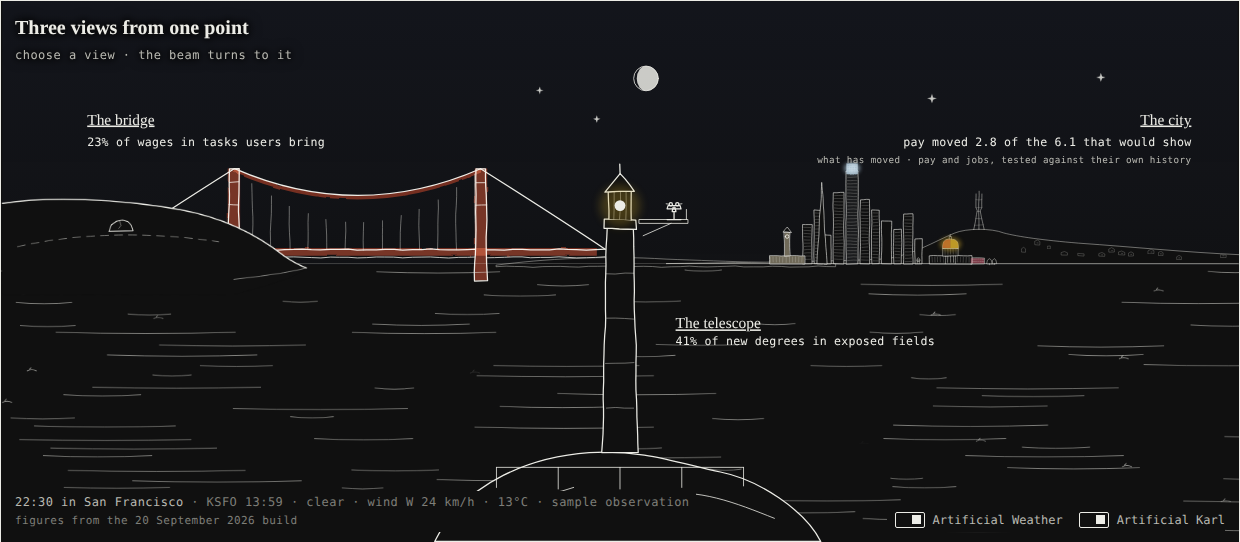
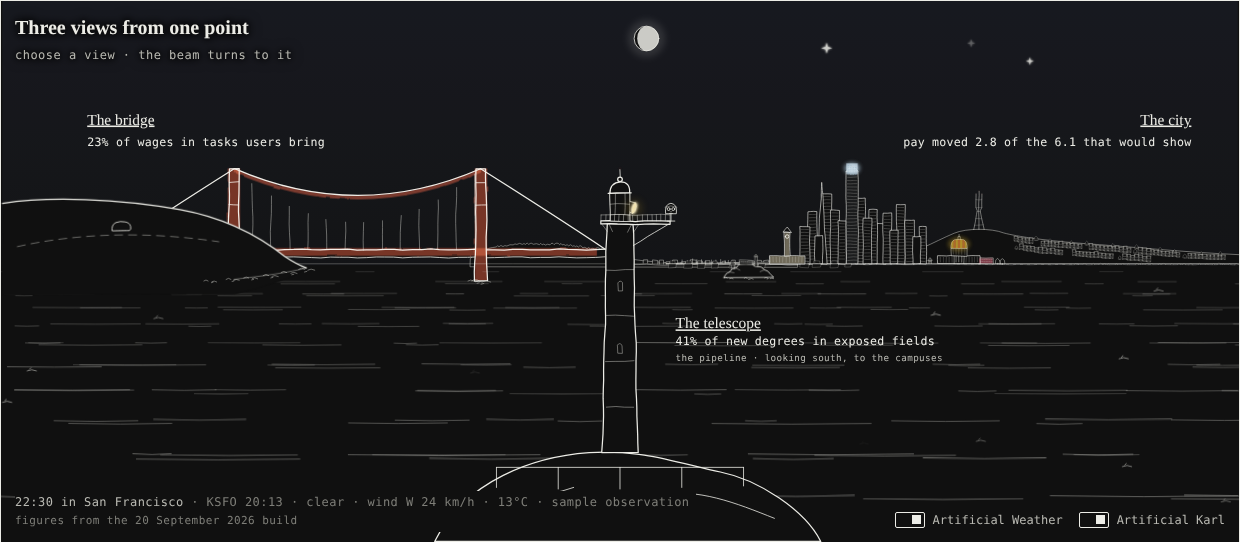
Front page: an orange and red flame; two ways to fail, a sputter and a break in two, each in one clean motion from the clock; a splash like the hydrant's; smaller softer aircraft lights, Sutro's taking turns, one on the lighthouse; calmer broken water; no star before the moon, a faint glow on both; 

diff --git a/docs/mockup/index.html b/docs/mockup/index.html
@@ -107,7 +107,8 @@ header.top{display:flex;align-items:baseline;justify-content:space-between;gap:1
 .halo{fill:var(--gold);stroke:none;opacity:0;transition:opacity .6s}
 .avlight,.shiplight{opacity:0}
 .dusk .avlight,.night .avlight{animation:av 2s steps(1) infinite}
-@keyframes av{0%{opacity:1}45%{opacity:.08}}
+@keyframes av{0%{opacity:.9}20%{opacity:.04}}
+.avlight{filter:url(#soft)}
 .dusk .shiplight,.night .shiplight{animation:shipflash 5s steps(1) infinite}
 @keyframes shipflash{0%{opacity:1}10%{opacity:0}}
 .night .lens{animation:occult 4s ease-in-out infinite}
@@ -245,6 +246,8 @@ header.top{display:flex;align-items:baseline;justify-content:space-between;gap:1
           <feGaussianBlur in="d" stdDeviation="0.7"/>
         </filter>
         <filter id="glow" x="-100%" y="-100%" width="300%" height="300%"><feGaussianBlur stdDeviation="6"/></filter>
+        <filter id="soft" x="-300%" y="-300%" width="700%" height="700%"><feGaussianBlur in="SourceGraphic" stdDeviation="1.1" result="b"/><feMerge><feMergeNode in="b"/><feMergeNode in="SourceGraphic"/></feMerge></filter>
+        <filter id="haze" x="-100%" y="-100%" width="300%" height="300%"><feGaussianBlur stdDeviation="5"/></filter>
         <filter id="lamp" x="-400%" y="-400%" width="900%" height="900%"><feGaussianBlur in="SourceGraphic" stdDeviation="2.2" result="b"/><feMerge><feMergeNode in="b"/><feMergeNode in="b"/><feMergeNode in="SourceGraphic"/></feMerge></filter>
         <filter id="lampwide" x="-60%" y="-60%" width="220%" height="220%"><feGaussianBlur stdDeviation="3.5"/></filter>
         <linearGradient id="skygrad" x1="0" y1="0" x2="0" y2="1"><stop id="sky-top" offset="0" stop-color="#BFD3E6" stop-opacity="0"/><stop id="sky-low" offset="1" stop-color="#F2B48C" stop-opacity="0"/></linearGradient>
@@ -405,6 +408,7 @@ header.top{display:flex;align-items:baseline;justify-content:space-between;gap:1
     el("path", {d:`M${x-15} ${top-6} L ${x+15} ${top-6} M${x-13} ${top-6} Q ${x-13} ${top-20} ${x} ${top-21} Q ${x+13} ${top-20} ${x+13} ${top-6} Z`, style:P}, g);
     el("circle", {cx:x, cy:top-24, r:3, style:P}, g); el("path", {d:`M${x} ${top-27} L ${x} ${top-37}`, class:"thin"}, g);
     el("circle", {cx:x, cy:top+8, r:9, class:"halo", id:"halo"}, g);
+    { const c = el("circle", {cx:x, cy:top-38, r:1.7, class:"avlight", style:"fill:#E0443A;stroke:none"}, g); c.style.animationDuration = "2.1s"; c.style.animationDelay = "-.7s"; }
     // the lamp: a drum on its yoke and a short barrel ending in the lens; it pokes out of the glass on the side it faces
     const lamp = el("g", {id:"lamphead", transform:`translate(${x},${top+8})`}, lampAt);
     el("path", {d:"M -1.5 5 L -1.5 14 M 1.5 5 L 1.5 14", class:"hair"}, lamp);
@@ -514,7 +518,7 @@ header.top{display:flex;align-items:baseline;justify-content:space-between;gap:1
         d += ` M ${(x + 1 + r()*2).toFixed(1)} ${(y + 1.5).toFixed(1)} q ${(4*k).toFixed(1)} ${(-2*k - r()).toFixed(1)} ${(9*k).toFixed(1)} ${(.5*r()).toFixed(1)}`;
         if (r() < .6) d += ` M ${(x - 4*k + r()*8*k).toFixed(1)} ${(y + 4*k).toFixed(1)} l ${(3*k).toFixed(1)} ${(-.8*k).toFixed(1)}`; }
       g.setAttribute("d", ""); g.innerHTML = ""; el("path", {d}, g); };
-    draw(); setInterval(()=>{ if (!reduced) draw(); }, 260);
+    draw(); setInterval(()=>{ if (!reduced) draw(); }, 1100);
   })();
   // a ridge that falls from the left edge to the water, the Gate's north end on its shoulder
   // the Marin headland: a low rounded shoulder falling to the water at the Gate's north end
@@ -669,17 +673,17 @@ header.top{display:flex;align-items:baseline;justify-content:space-between;gap:1
     tintRect(L, ox+1041, baseY-290, 32, 30, "#9FB7C9").classList.add("nightlight");
     const grid = el("g", {class:"nightlight"}, L); const r = rng(59);
     // red lights for aircraft: Sutro's three masts, the pyramid's tip, the tallest tower's crown; each blinks steadily, out of step with the others
-    const red = (g_, x, y, r = 3) => { const c = el("circle", {cx:x, cy:y, r, class:"avlight lamp", style:"fill:#FF2A1F;stroke:none"}, g_);
-      c.style.animationDuration = (1.8 + Math.random()*.7).toFixed(2) + "s"; c.style.animationDelay = (-Math.random()*3).toFixed(2) + "s"; };
-    red(L, ox+700, baseY-104-108); red(L, ox+692, baseY-104-100, 2.6); red(L, ox+708, baseY-104-100, 2.6);
-    red(L, ox+1142, baseY-238); red(L, ox+1057, baseY-282);
+    const red = (g_, x, y, r = 1.8, period = 1.8 + Math.random()*.7, delay = -Math.random()*3) => { const c = el("circle", {cx:x, cy:y, r, class:"avlight", style:"fill:#E0443A;stroke:none"}, g_);
+      c.style.animationDuration = period.toFixed(2) + "s"; c.style.animationDelay = delay.toFixed(2) + "s"; };
+    { const P = 2.4; red(L, ox+700, baseY-104-108, 1.8, P, 0); red(L, ox+692, baseY-104-100, 1.6, P, -P/3); red(L, ox+708, baseY-104-100, 1.6, P, -2*P/3); }   // Sutro's three, one after another
+    red(L, ox+1142, baseY-238, 1.6); red(L, ox+1057, baseY-282, 1.8);
     for (let i=0;i<4;i++) for (let j=0;j<5;j++){ const b = el("rect", {x:ox+1044+i*7, y:baseY-286+j*6, width:5, height:4, class:"crownblock", style:`fill:#9FB7C9;stroke:none`}, grid); b.style.animationDelay = (-r()*9).toFixed(1) + "s"; }
   }
   drawLights(new Date());
   // on the bridge's two tower tops, red for aircraft; on Alcatraz, a white light for ships
   (function sceneLights(){
     const g = el("g", {}, $("#L-lights .zoom"));
-    for (const x of [300, 620]) for (const dx of [-5, 5]){ const c = el("circle", {cx:x + dx, cy:215, r:1.6, class:"avlight lamp", style:"fill:#FF2A1F;stroke:none"}, g);
+    for (const x of [300, 620]) for (const dx of [-5, 5]){ const c = el("circle", {cx:x + dx, cy:215, r:1, class:"avlight", style:"fill:#E0443A;stroke:none"}, g);
       c.style.animationDuration = (1.9 + Math.random()*.6).toFixed(2) + "s"; c.style.animationDelay = (-Math.random()*3).toFixed(2) + "s"; }
     const a = el("circle", {cx:976.8, cy:330.4, r:1.4, class:"shiplight lamp", style:"fill:#FFFFFF;stroke:none"}, g); a.style.animationDelay = (-Math.random()*5).toFixed(2) + "s";
   })();
@@ -773,7 +777,7 @@ header.top{display:flex;align-items:baseline;justify-content:space-between;gap:1
   // what each view is, in the scene: the two ends the beam reaches for. The telescope is in front, on the rail.
   // from the point the beam reaches for the whole of the place; once turned, it skims the water to the place's feet
   // ends: the two edges of the light seen from the point; edge: the same once turned to it, running to the place's top and to its foot on the water
-  const TARGET = { city:{ ends:[[1005, 214], [1600, 342]], edge:[[1057, 215], [1600, 341]] }, bridge:{ ends:[[292, 214], [140, 332]], edge:[[300, 210], [150, 337]] }, tele:{ ends:[[1470, 334], [1600, 346]] } };
+  const TARGET = { city:{ ends:[[1005, 214], [1600, 342]], edge:[[1057, 215], [1600, 341]] }, bridge:{ ends:[[292, 214], [140, 332]], edge:[[300, 210], [150, 337]] }, tele:{ ends:[[1180, 470], [1600, 400]] } };
   const beamPath = $("#beam path"); let beamTimer = null; const fogTimers = [];
   // where the lighthouse stands in each view: whole at the point; turned, only its lantern shows, large, at the side you turned from
   const LANTERN = [800, 263];
@@ -814,8 +818,12 @@ header.top{display:flex;align-items:baseline;justify-content:space-between;gap:1
   function light(t){ document.querySelectorAll(".hot").forEach(h=>h.classList.toggle("lit", h.id === "hot-"+t)); }
   // left alone on the point, the beam turns to each view in its own time and holds it lit
   const SWEEP = ["city", "tele", "bridge"]; let sweepTimer = null, sweepAt = 0;
-  function hold(){ clearInterval(sweepTimer); sweepTimer = null; }
-  function sweep(){ hold(); if (stage.dataset.view !== "home") return; const step = ()=>{ const t = SWEEP[sweepAt++ % SWEEP.length]; aim(t); light(t); }; step(); sweepTimer = setInterval(step, 8000); }
+  function hold(){ clearTimeout(sweepTimer); sweepTimer = null; }
+  let sweepLast = null;
+  function sweep(){ hold(); if (stage.dataset.view !== "home") return;
+    const step = ()=>{ const options = SWEEP.filter(t => t !== sweepLast), t = options[Math.floor(Math.random()*options.length)]; sweepLast = t; aim(t); light(t);
+      sweepTimer = setTimeout(step, 6000 + Math.random()*5000); };
+    step(); }
   for (const [id, t] of [["hot-city","city"],["hot-bridge","bridge"],["hot-tele","tele"]]){
     const h = $("#"+id);
     h.addEventListener("mouseenter", ()=>{ hold(); aim(t); light(t); }); h.addEventListener("focus", ()=>{ hold(); aim(t); light(t); });
@@ -1103,7 +1111,7 @@ header.top{display:flex;align-items:baseline;justify-content:space-between;gap:1
     }
     if (night){ const rs = rng(Math.floor(Date.now()/86400e3)); const n = 4 + Math.floor(rs()*2);
       for (let i=0;i<n;i++){ const x = 480 + rs()*1080, y = 30 + rs()*62, sz = 2 + rs()*1.6;
-        const st = el("path", {d:`M ${x} ${y-sz*2} L ${x+sz*.45} ${y-sz*.45} L ${x+sz*2} ${y} L ${x+sz*.45} ${y+sz*.45} L ${x} ${y+sz*2} L ${x-sz*.45} ${y+sz*.45} L ${x-sz*2} ${y} L ${x-sz*.45} ${y-sz*.45} Z`, class:"star", style:"fill:var(--ink);stroke:none"}, celes);
+        const st = el("path", {d:`M ${x} ${y-sz*2} L ${x+sz*.45} ${y-sz*.45} L ${x+sz*2} ${y} L ${x+sz*.45} ${y+sz*.45} L ${x} ${y+sz*2} L ${x-sz*.45} ${y+sz*.45} L ${x-sz*2} ${y} L ${x-sz*.45} ${y-sz*.45} Z`, class:"star", style:"fill:var(--ink);stroke:none;filter:url(#soft)"}, celes); st.dataset.x = x; st.dataset.y = y;
         st.style.animationDuration = (5 + rs()*7).toFixed(1) + "s"; st.style.animationDelay = (-rs()*10).toFixed(1) + "s"; } }
     // the moon is drawn at its phase and where it is; on a night it has set, the drawing keeps it low over the horizon anyway
     const moonAt = ((moon.alt > 0 || night) && (night || sun.alt < 4) && w.fog < .9) ? inFrame(view, xOfAzimuth(moon.alt > 0 ? moon.az : (moon.az + 180) % 360), yOfAltitude(Math.max(moon.alt, night ? 16 : 0)), 20) : null;
@@ -1113,9 +1121,11 @@ header.top{display:flex;align-items:baseline;justify-content:space-between;gap:1
       // side is drawn in ink, which is white then; by day the disc is shaded and the lit side is left paper.
       const k = Math.cos(phase*2*Math.PI), sweep = phase < .5 ? 1 : 0;
       const lens = `M ${x} ${y-16} A 16 16 0 0 ${sweep} ${x} ${y+16} A ${Math.abs(k)*16} 16 0 0 ${(k>0) ? 1-sweep : sweep} ${x} ${y-16} Z`;   // the limb on the lit side, then the terminator, bulging away from it past the quarter
-      if (night){ el("circle", {cx:x, cy:y, r:16}, g); el("path", {d:lens, style:"fill:var(--ink);stroke:none;opacity:.85"}, g); }
+      if (night){ el("circle", {cx:x, cy:y, r:24, filter:"url(#haze)", style:"fill:var(--ink);stroke:none;opacity:.12"}, g); el("circle", {cx:x, cy:y, r:16, style:"fill:var(--paper)"}, g); el("path", {d:lens, style:"fill:var(--ink);stroke:none;opacity:.85"}, g); }
       else { el("circle", {cx:x, cy:y, r:16, style:"fill:var(--ink);opacity:.14"}, g); el("path", {d:lens, style:"fill:var(--paper);stroke:none"}, g); el("circle", {cx:x, cy:y, r:16, class:"hair"}, g); }
     }
+    // no star sits in front of the moon or the sun
+    for (const st of celes.querySelectorAll(".star")) for (const at of [moonAt, sunAt]) if (at && Math.hypot(+st.dataset.x - at[0], +st.dataset.y - at[1]) < 40) st.remove();
     const age = (Date.now() - o.time.getTime())/60000;
     stage.classList.toggle("stale", age > 90);
     const dir = ["N","NE","E","SE","S","SW","W","NW"][Math.round(((o.wind_from%360)+360)%360/45)%8];
@@ -1151,6 +1161,14 @@ header.top{display:flex;align-items:baseline;justify-content:space-between;gap:1
       for (let i=0;i<5;i++){ const x = stern - 4 - i*(8 + r()*4), y = wl + (i % 2)*2.2 + r()*1.2; d += ` M ${x.toFixed(1)} ${y.toFixed(1)} q ${-3 - r()} ${(-1.8 - r()).toFixed(1)} ${(-6.5 - r()*2).toFixed(1)} 0`; }
       d += ` M ${bow - 8} ${wl + .5} L ${stern + 4} ${wl + .5}`;                                   // the line where hull meets water, broken a little
       p.setAttribute("d", d); }; }
+  function splashAt(x, y, sc = 1, ms = 1800){
+    const g = el("g", {class:"thin"}, life); let flow = 1;
+    const arcs = []; for (let i=0;i<10;i++) arcs.push(el("path", {d:""}, g));
+    const ring = el("path", {d:"", class:"hair"}, g);
+    const draw = () => arcs.forEach((a, i) => { const side = i % 2 ? 1 : -1, n = i >> 1, h = (6 + n*3.5)*(.8 + Math.random()*.4)*flow*sc, r = (4 + n*3)*(.85 + Math.random()*.3)*(.4 + .6*flow)*sc;
+      a.setAttribute("d", `M ${x} ${y} q ${(side*r*.45).toFixed(1)} ${(-h).toFixed(1)} ${(side*r).toFixed(1)} ${(1.5*sc).toFixed(1)} M ${(x + side*(r + Math.random()*2)).toFixed(1)} ${(y + 2).toFixed(1)} l ${(side*Math.random()*1.5).toFixed(1)} ${(1.5 + Math.random()*2).toFixed(1)}`); });
+    const t = setInterval(draw, 100); draw();
+    tween(ms, k=>{ flow = Math.max(0, 1 - k*1.05); ring.setAttribute("d", `M ${x - (10 + k*26)*sc} ${y + 2} q ${(10 + k*26)*sc} ${-3*sc} ${(20 + k*52)*sc} 0`); ring.style.opacity = 1 - k; }, ()=>{ clearInterval(t); g.remove(); }); }
   let taxiUntil = 0, bearUp = false, rocketUntil = 0, whaleUp = 0, lastPad = 0, ferryUntil = 0;        // one robotaxi on the road at a time; one bear
   const EVENTS = {
     gull(){ if (stage.classList.contains("night")) return; // one to three, each its own size, pace, bob and wingbeat
@@ -1213,42 +1231,68 @@ header.top{display:flex;align-items:baseline;justify-content:space-between;gap:1
       }, ()=>g.remove()); },
     rocket(){ const view = stage.dataset.view; if (view !== "home" && view !== "valley") return 0;
       if (performance.now() < rocketUntil) return 0;
-      // from behind the land, straight up, slow off the pad and gathering speed, its trail of exhaust behind it;
-      // one in three loses its engine: the trail goes, it rises a little further, hangs and wobbles, and falls into the bay
-      const valley = view === "valley", far = $("#lifeback");
+      const valley = view === "valley", far = $("#lifeback"), night = stage.classList.contains("night");
       let x0; do { x0 = valley ? 830 + Math.random()*270 : 1430 + Math.random()*150; } while ((valley && Math.abs(x0 - 930) < 40) || Math.abs(x0 - lastPad) < 40);
       lastPad = x0;
-      const y0 = valley ? 300 : 342;                                                 // below the ridge; the land and the horizon hide it until it clears them
-      const holder = el("g", valley ? {} : {"clip-path":"url(#above-horizon)"}, far), g = el("g", {class:"thin"}, holder);
-      el("path", {d:"M-3 0 L -3 -20 Q 0 -30 3 -20 L 3 0 Z M-3 -5 L -7 2 L -3 0 M 3 -5 L 7 2 L 3 0", style:"fill:var(--paper)"}, g);
-      const plume = el("g", {class:"hair"}, g);
-      const puff = () => { if (plume.childElementCount < 40 && Math.random() < .6) el("path", {d:`M${((Math.random()-.5)*7).toFixed(1)} ${(4 + Math.random()*8).toFixed(1)} l 0 ${(6 + Math.random()*14).toFixed(1)}`}, plume); };
+      const y0 = valley ? 300 : 342, waterY = valley ? 430 : 376 + Math.random()*24;
+      const holder = el("g", valley ? {} : {"clip-path":"url(#above-horizon)"}, far), g = el("g", {class:"thin"}, holder), P = "fill:var(--paper)";
+      // the rocket in two halves, which is how it can come apart
+      const TOP = "M-3 -10 L -3 -20 Q 0 -30 3 -20 L 3 -10 L 1.5 -11.2 L 0 -9.8 L -1.5 -11.5 Z", BOT = "M-3 0 L -3 -10 L -1.5 -11.5 L 0 -9.8 L 1.5 -11.2 L 3 -10 L 3 0 Z M-3 -5 L -7 2 L -3 0 M 3 -5 L 7 2 L 3 0";
+      const plume = el("g", {class:"hair"}, g), flame = el("g", {}, g);
+      el("path", {d:"M -2.6 1 Q -1.2 7 0 13 Q 1.2 7 2.6 1 Z", style:"fill:#F29A3A;stroke:none"}, flame);
+      el("path", {d:"M -1.4 1 Q -.6 4.5 0 7.5 Q .6 4.5 1.4 1 Z", style:"fill:#D8352B;stroke:none"}, flame);
+      const top = el("path", {d:TOP, style:P}, g), bot = el("path", {d:BOT, style:P}, g);
+      const puff = () => { if (plume.childElementCount < 40 && Math.random() < .6) el("path", {d:`M${((Math.random()-.5)*7).toFixed(1)} ${(8 + Math.random()*8).toFixed(1)} l 0 ${(6 + Math.random()*14).toFixed(1)}`}, plume); };
+      const flick = (on, size = 1) => { flame.style.opacity = on ? 1 : 0; if (on) flame.setAttribute("transform", `scale(${(.9 + Math.random()*.2)*size},${(.8 + Math.random()*.45)*size})`); };
       const lean = (valley ? (Math.random() < .5 ? 1 : -1) : 1)*(.3 + Math.random()*.5), pace = .9 + Math.random()*.2;
-      const fails = FORCE_FAIL || Math.random() < 1/3;
+      const mode = params.get("rocket") === "crack" ? "crack" : FORCE_FAIL ? "sputter" : Math.random() < 2/3 ? "fly" : Math.random() < .5 ? "sputter" : "crack";
       rocketUntil = performance.now() + 60000;
       const end = () => { holder.remove(); rocketUntil = performance.now() + 4000; };
-      if (!fails){
+      if (mode === "fly"){
         tween(15000/pace, k=>{ const y = y0 - k*k*(y0 + 90), x = x0 - k*k*70*lean;
-          g.setAttribute("transform", `translate(${x.toFixed(2)},${y.toFixed(2)}) rotate(${(-k*9*lean).toFixed(2)})`);
-          puff(); plume.style.opacity = 1 - k*.6; }, end);
+          g.setAttribute("transform", `translate(${x.toFixed(2)},${y.toFixed(2)}) rotate(${(-k*9*lean).toFixed(2)})`); puff(); flick(true); plume.style.opacity = 1 - k*.6; }, end);
         return 16000; }
-      const lift = 190, coast = 28, top = y0 - lift - coast, waterY = valley ? 430 : 372 + Math.random()*30; let splash = null, fx = x0;
-      tween(13000/pace, k=>{
-        if (k < .36){ const t = k/.36; g.setAttribute("transform", `translate(${(x0 - t*t*18*lean).toFixed(2)},${(y0 - t*t*lift).toFixed(2)}) rotate(${(-t*5*lean).toFixed(2)})`);
-          puff(); }
-        else if (k < .5){ const t = (k-.36)/.14; plume.style.opacity = Math.max(0, 1 - t*4);                                   // the engine cuts: the trail goes, it coasts up and slows
-          g.setAttribute("transform", `translate(${(x0 - 18*lean - t*4*lean).toFixed(2)},${(y0 - lift - (1-(1-t)*(1-t))*coast).toFixed(2)}) rotate(${(-5*lean - t*3*lean).toFixed(2)})`); }
-        else if (k < .6){ const t = (k-.5)/.1;                                                                                      // it hangs and wobbles
-          g.setAttribute("transform", `translate(${(x0 - 22*lean + Math.sin(t*28)*1.4).toFixed(2)},${(top + t*3).toFixed(2)}) rotate(${(-8*lean + Math.sin(t*24)*(6 + t*16)).toFixed(2)})`); }
-        else if (k < .88){ const t = (k-.6)/.28; if (holder.parentNode !== life){ holder.removeAttribute("clip-path"); life.appendChild(holder); }   // and falls forward, into the near water
-          fx = x0 - 22*lean + Math.sin(t*9)*16;
-          g.setAttribute("transform", `translate(${fx.toFixed(2)},${(top + 3 + t*t*(waterY - top - 3)).toFixed(2)}) rotate(${(-8*lean + t*t*400*lean + Math.sin(t*22)*22).toFixed(2)})`); }
-        else { if (!splash){ g.style.opacity = 0; splash = el("g", {class:"thin"}, holder);
-            for (let i=0;i<7;i++){ const a = (-150 + i*20)*Math.PI/180; el("path", {d:`M${fx} ${waterY} l ${Math.cos(a)*8} ${Math.sin(a)*8} l ${Math.cos(a)*10} ${Math.sin(a)*14}`}, splash); }
-            el("path", {d:`M${fx-30} ${waterY+6} q 30 -5 60 0 M${fx-48} ${waterY+14} q 48 -6 96 0`, class:"hair"}, splash); }
-          splash.style.opacity = 1 - (k-.88)/.12; }
-      }, end);
-      return 14000; },
+      // both failures follow the same physics: thrust while the engine runs, then only gravity
+      const A = valley ? 17 : 20, G = 50, T = mode === "crack" ? 3.2 : 4.2, vb = A*T, hT = .5*A*T*T;
+      const smooth = u => { u = Math.max(0, Math.min(1, u)); return u*u*(3 - 2*u); };
+      const puffAt = (x, y, delay) => setTimeout(()=>{ if (!holder.isConnected) return; const c = el("circle", {cx:x, cy:y, r:2, style:`fill:${night ? "#EDEDE6" : "#8A8F96"};stroke:none;opacity:.8`}, holder.parentNode === life ? life : far);
+        tween(1300, k=>{ c.setAttribute("r", (2 + k*7).toFixed(1)); c.setAttribute("cy", (y - k*4).toFixed(1)); c.style.opacity = .8*(1 - k); }, ()=>c.remove()); }, delay);
+      const t0 = performance.now(); let brokeAt = null, pieces = null, done = false;
+      (function step(now){
+        if (!holder.isConnected || done) return;
+        const t = (now - t0)/1000*pace;
+        const h = t < T ? .5*A*t*t : hT + vb*(t - T) - .5*G*(t - T)*(t - T);
+        const x = t < T ? x0 - lean*1.2*t*t : x0 - lean*1.2*T*T - lean*2.4*T*.5*(t - T), y = y0 - h;
+        const apex = T + vb/G;
+        if (mode === "sputter"){
+          // the engine cuts; it coughs twice, a small grey puff each time, and is gone; the rocket coasts up, slows, tips over and falls
+          if (t < T){ flick(true); puff(); }
+          else { const dt = t - T, cough = (dt > .35 && dt < .5) || (dt > .95 && dt < 1.08);
+            flick(cough, .45); plume.style.opacity = Math.max(0, 1 - dt*2);
+            if (cough && !step.c1 && dt < .5){ step.c1 = true; puffAt(x, y + 8, 0); } if (cough && !step.c2 && dt > .95){ step.c2 = true; puffAt(x, y + 8, 0); } }
+          if (t > apex && holder.parentNode !== life){ holder.removeAttribute("clip-path"); life.appendChild(holder); }
+          const rot = -lean*4*Math.min(1, t/T) + lean*176*smooth((t - (apex - .5))/1.8);
+          g.setAttribute("transform", `translate(${x.toFixed(2)},${y.toFixed(2)}) rotate(${rot.toFixed(2)})`);
+          if (t > apex && y >= waterY){ done = true; splashAt(x, waterY, valley ? .8 : .7); return end(); }
+        } else {
+          // it comes apart in two: a crack, the halves spin away from each other, each falls into the bay on its own
+          if (!brokeAt && t >= T){ brokeAt = { x, y, t }; flame.remove(); plume.style.opacity = 0; holder.removeAttribute("clip-path"); life.appendChild(holder);
+            const pop = el("g", {class:"hair"}, holder); for (let i=0;i<6;i++){ const a = i/6*2*Math.PI; el("path", {d:`M ${(x + Math.cos(a)*4).toFixed(1)} ${(y - 10 + Math.sin(a)*4).toFixed(1)} l ${(Math.cos(a)*5).toFixed(1)} ${(Math.sin(a)*5).toFixed(1)}`}, pop); }
+            tween(700, k=>{ pop.style.opacity = 1 - k; }, ()=>pop.remove());
+            top.remove(); bot.remove(); g.setAttribute("transform", "");
+            const mk = (d, cy) => { const w = el("g", {}, holder); el("path", {d, style:P, transform:`translate(0,${-cy})`}, w); return w; };
+            pieces = [{ g:mk(TOP, -19), vx: 14 + Math.random()*6, vy: vb*.9, spin: 260, cy:-19, done:false },
+                      { g:mk(BOT, -5), vx: -10 - Math.random()*6, vy: vb*.6, spin: -190, cy:-5, done:false }]; }
+          if (!brokeAt){ flick(true); puff(); g.setAttribute("transform", `translate(${x.toFixed(2)},${y.toFixed(2)}) rotate(${(-lean*4*t/T).toFixed(2)})`); }
+          else { const dt = t - brokeAt.t; let left = 0;
+            for (const pc of pieces){ if (pc.done) continue; left++;
+              const px = brokeAt.x + pc.vx*dt, py = brokeAt.y + pc.cy - (pc.vy*dt - .5*G*dt*dt);
+              pc.g.setAttribute("transform", `translate(${px.toFixed(2)},${py.toFixed(2)}) rotate(${(pc.spin*dt).toFixed(1)})`);
+              if (dt > .3 && py >= waterY){ pc.done = true; pc.g.remove(); splashAt(px, waterY, valley ? .6 : .5); } }
+            if (!left){ done = true; return end(); } }
+        }
+        requestAnimationFrame(step); })(t0);
+      return 13000; },
     robotaxi(){ if (stage.dataset.view !== "city" || performance.now() < taxiUntil) return 0; taxiUntil = performance.now() + 21000;
       // the city's own units on screen, and the drawn hydrant's place on the shore; it comes in from the west along the front
       const k = ZOOM.city.s*CITY.k, [hx, hy] = toScreen("city", cityX(HYD), CITY.y);
@@ -1272,7 +1316,12 @@ header.top{display:flex;align-items:baseline;justify-content:space-between;gap:1
       tween(drive, k=>{ const x = x0 + Math.min(k*1.12, 1)*(stop-x0); const bump = k > .89 ? Math.sin((k-.89)*70)*2.5*(1-k)/.11 : 0; g.setAttribute("transform", `translate(${x+bump},${y})`); if (k > .86) car.classList.add("braking"); if (k > .89) spout.style.opacity = 1; },
         ()=>{ tween(2200, k=>{ spout.style.opacity = 1; }, ()=>{ tween(900, k=>{ car.setAttribute("transform", `scale(${S*(1 - 2*k)}, ${S})`); }, ()=>{ car.classList.remove("braking"); tween(6000, k=>{ g.setAttribute("transform", `translate(${stop + k*k*(1700-stop)},${y})`); flow = Math.max(.05, 1 - k*1.05); }, ()=>{ clearInterval(spin); g.remove(); spout.remove(); }); }); }); });
       return drive + 9100; },
-    bear(){ if (stage.dataset.view !== "bridge" || bearUp) return 0; bearUp = true;
+    zzz(){ if (stage.dataset.view !== "bridge" || !stage.classList.contains("night")) return 0;
+      const [bx, by] = toScreen("bridge", 158, 284);
+      for (let i=0;i<3;i++) setTimeout(()=>{ if (stage.dataset.view !== "bridge") return; const z = el("text", {x:bx, y:by, class:"cap", style:`font-size:${10 + i*4}px;fill:var(--ink)`}, life); z.textContent = "z";
+        const dx = 6 + Math.random()*8; tween(3200, k=>{ z.setAttribute("x", (bx + k*dx*3 + Math.sin(k*6)*3).toFixed(1)); z.setAttribute("y", (by - k*44).toFixed(1)); z.style.opacity = k < .2 ? k*5 : 1 - (k - .2)/.8; }, ()=>z.remove()); }, i*700);
+      return 5000; },
+    bear(){ if (stage.dataset.view !== "bridge" || bearUp) return 0; if (stage.classList.contains("night")) return EVENTS.zzz(); bearUp = true;
       // up over the rock, a look one way and the other, and down again
       const h = $("#bearhead"); const at = (y, fx) => h.setAttribute("transform", `translate(0,${y.toFixed(2)}) scale(${fx},1)`);
       // in the rain it brings an umbrella: opened once its head is up, folded before it goes back down
@@ -1336,6 +1385,13 @@ header.top{display:flex;align-items:baseline;justify-content:space-between;gap:1
       }, ()=>{ g.remove(); cp.remove(); whaleUp = Math.max(0, whaleUp - 1); });
       return dur; },
     boat(){ const view = stage.dataset.view; if (view !== "bridge" && view !== "home") return 0; (Math.random() < .5 && !stage.classList.contains("night") ? EVENTS.sail : EVENTS.cargo)(); return 9000; },
+    muni(){ if (stage.dataset.view !== "home") return 0;
+      const g = el("g", {class:"hair"}, life), P = "fill:var(--paper)", south = Math.random() < .7, dur = 26000 + Math.random()*10000;
+      for (let i=0;i<2;i++){ el("path", {d:`M ${i*10} 0 L ${i*10} -3.4 L ${i*10 + 9} -3.4 L ${i*10 + 9} 0 Z`, style:P}, g); el("path", {d:`M ${i*10 + 1.5} -2.3 l 6 0`}, g);
+        el("rect", {x:i*10 + 1.5, y:-2.8, width:6, height:1.1, class:"carlight", style:"fill:#F8DC8C;stroke:none"}, g); }
+      el("circle", {cx:south ? 19.5 : -.5, cy:-1.2, r:.8, class:"carlight lamp", style:"fill:#FFF6D2;stroke:none"}, g);
+      tween(dur, k=>{ const x = south ? 1014 + k*600 : 1614 - k*600; g.setAttribute("transform", `translate(${(x - 14).toFixed(1)},339.4) scale(1.45)`); }, ()=>g.remove());
+      return 0; },
     bart(){ if (stage.dataset.view !== "valley") return 0;
       // half the trains run left to right, half right to left, nose first either way
       const t = $("#bart"), dur = 10500 + Math.random()*3000, east = Math.random() < .5;
@@ -1411,9 +1467,9 @@ header.top{display:flex;align-items:baseline;justify-content:space-between;gap:1
      clocks alongside. Everything is cancelled and restarted when the view changes, and any error in one
      event is caught so the others carry on. */
   const PLAY = {
-    home:   { first:[["rocket", 9000]],                                   features:["whale", "rocket", "boat"],  gap:[12000, 22000], ambient:[["gull", [18000, 34000]], ["plane", [26000, 48000]]] },
+    home:   { first:[["rocket", 9000]],                                   features:["whale", "rocket", "boat"],  gap:[12000, 22000], ambient:[["gull", [18000, 34000]], ["plane", [26000, 48000]], ["muni", [30000, 55000]]] },
     city:   { first:[["robotaxi", 6000], ["cityferry", 24000]],          features:["robotaxi", "cityferry"],    gap:[14000, 24000], ambient:[["gull", [20000, 36000]], ["plane", [28000, 50000]]] },
-    bridge: { first:[["boat", 2500], ["bear", 15000], ["whale", 30000]],  features:["bear", "whale", "boat"],     gap:[12000, 22000], ambient:[["gull", [18000, 34000]], ["plane", [30000, 55000]]] },
+    bridge: { first:[["boat", 2500], ["bear", 15000], ["whale", 30000]],  features:["bear", "whale", "boat"],     gap:[12000, 22000], ambient:[["gull", [18000, 34000]], ["plane", [30000, 55000]], ["zzz", [16000, 28000]]] },
     valley: { first:[["bart", 1500], ["rocket", 13000]],                  features:["bart", "rocket", "bart"],   gap:[5000, 11000],  ambient:[] },
   };
   const rand = ([lo, hi]) => lo + Math.random()*(hi - lo);
